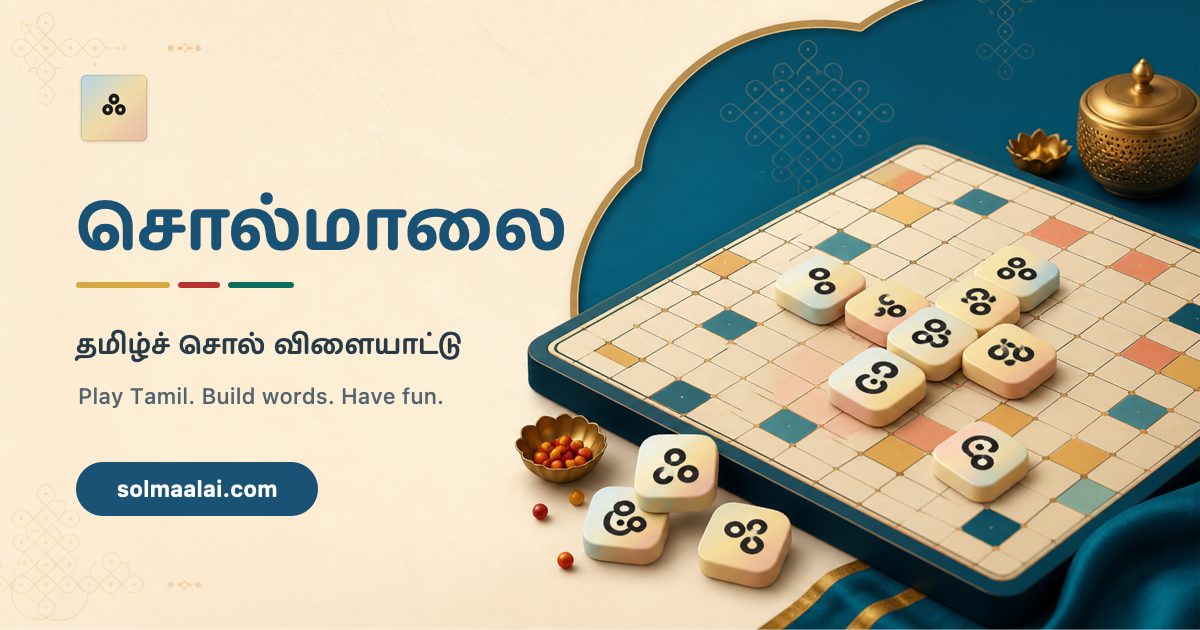
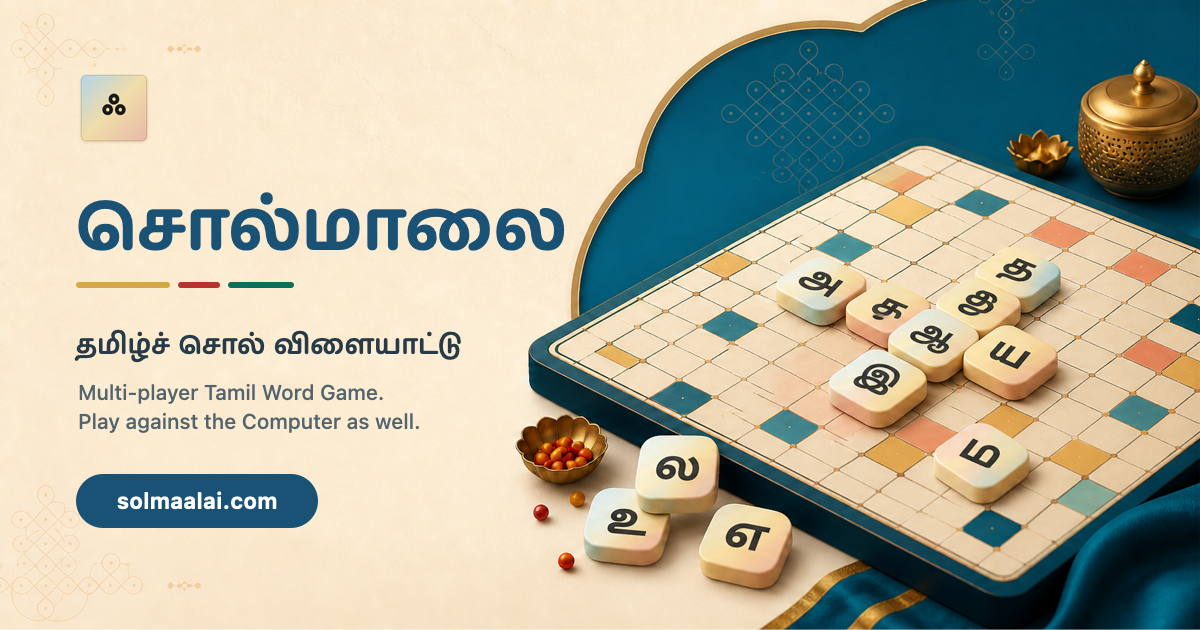
Refine social sharing preview

diff --git a/public/index.html b/public/index.html
@@ -8,7 +8,7 @@
     <meta name="theme-color" content="#1A5276" />
     <meta
       name="description"
-      content="Play Solmaalai, a Tamil word game with online multiplayer and a computer opponent."
+      content="Multi-player Tamil Word Game. Play against the Computer as well."
     />
     <link rel="canonical" href="https://solmaalai.com/" />
     <meta property="og:type" content="website" />
@@ -17,7 +17,7 @@
     <meta property="og:title" content="சொல்மாலை — Tamil Word Game" />
     <meta
       property="og:description"
-      content="Play Tamil. Build words. Have fun — online with friends or against the computer."
+      content="Multi-player Tamil Word Game. Play against the Computer as well."
     />
     <meta
       property="og:image"
@@ -35,7 +35,7 @@
     <meta name="twitter:title" content="சொல்மாலை — Tamil Word Game" />
     <meta
       name="twitter:description"
-      content="Play Tamil. Build words. Have fun — online with friends or against the computer."
+      content="Multi-player Tamil Word Game. Play against the Computer as well."
     />
     <meta
       name="twitter:image"

diff --git a/AGENTS.md b/AGENTS.md
@@ -154,7 +154,7 @@ railway.toml                  # Railway deploy config: watchPatterns to skip doc
 The app opens to a landing page before entering any game:
 
 - **Game title**: "சொல்மாலை" in large peacock blue text
-- **Social link preview**: `public/index.html` publishes absolute Open Graph and X/Twitter `summary_large_image` metadata for `https://solmaalai.com/solmaalai-social-card.png` (1200×630), so shared production links render the branded Tamil game card.
+- **Social link preview**: `public/index.html` publishes absolute Open Graph and X/Twitter `summary_large_image` metadata for `https://solmaalai.com/solmaalai-social-card.png` (1200×630), so shared production links render the branded Tamil game card with Tamil-letter tiles and the multiplayer/computer-play caption.
 - **Logo**: Renders `public/logo.png` above the title (96px height). Hides gracefully via `onError` if the file is missing.
 - **Persistent username**: Editable username input (saved in `localStorage` and synced to server profile)
 - **Account auth panel (feature-flagged)**: Landing page supports login/signup plus verify-email and forgot/reset password flows; signup includes an explicit username field in the auth card. By default only **Forgot Password** selector is shown; **Reset Password** and **Verify Email** selectors appear only when arriving via `/reset-password?token=...` or `/verify-email?token=...` links. Verify links auto-submit once; reset links auto-select reset mode and reuse URL token (manual token input only when token is missing). When auth is enabled, access token is kept in-memory, refresh session uses HttpOnly cookie, and CSRF token is sent via `X-CSRF-Token` from `solmaalai_csrf` cookie.
